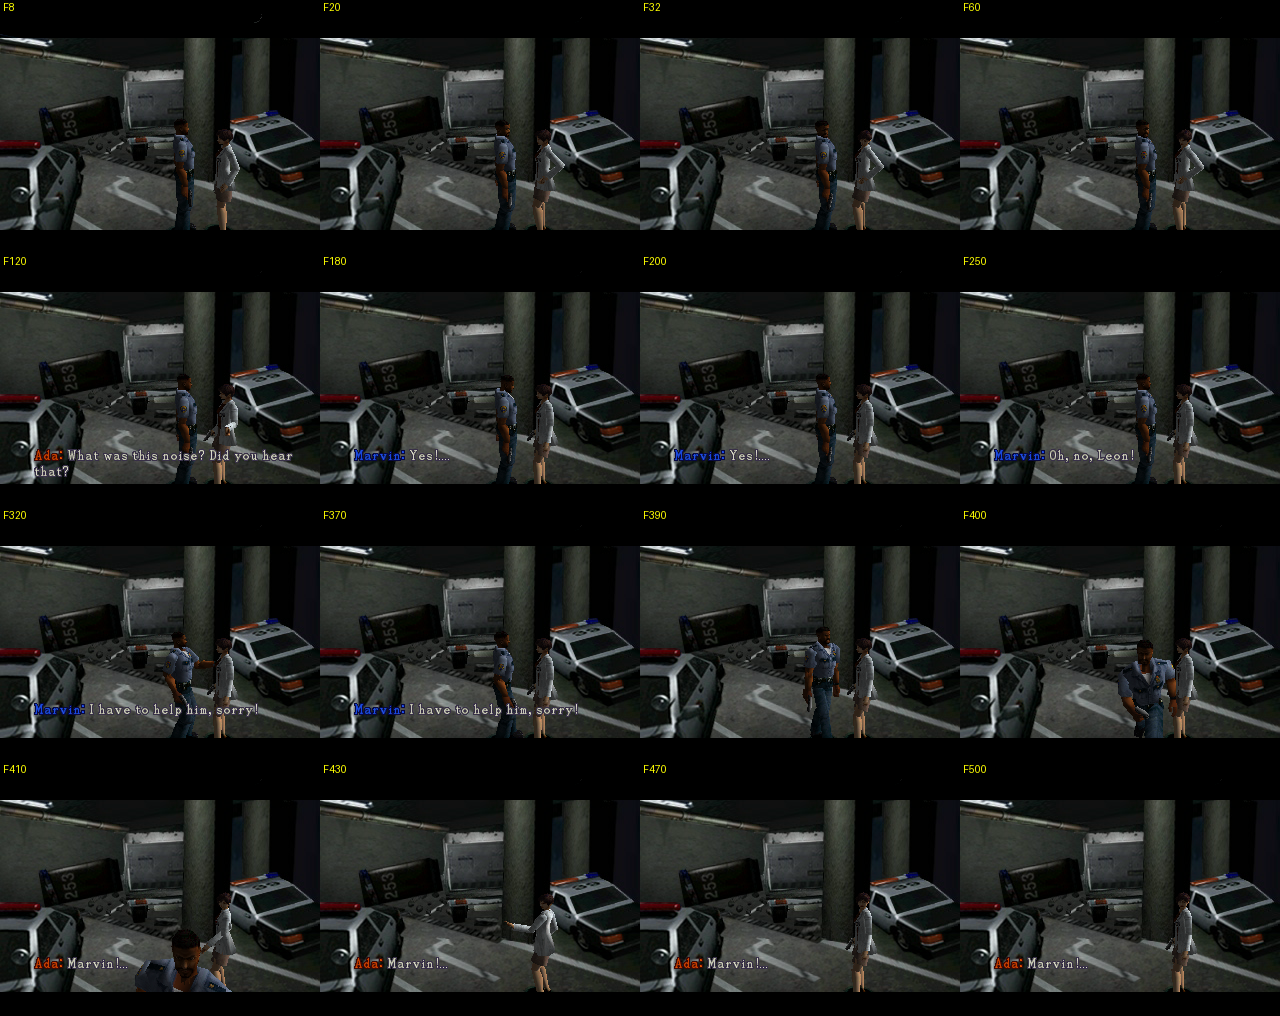
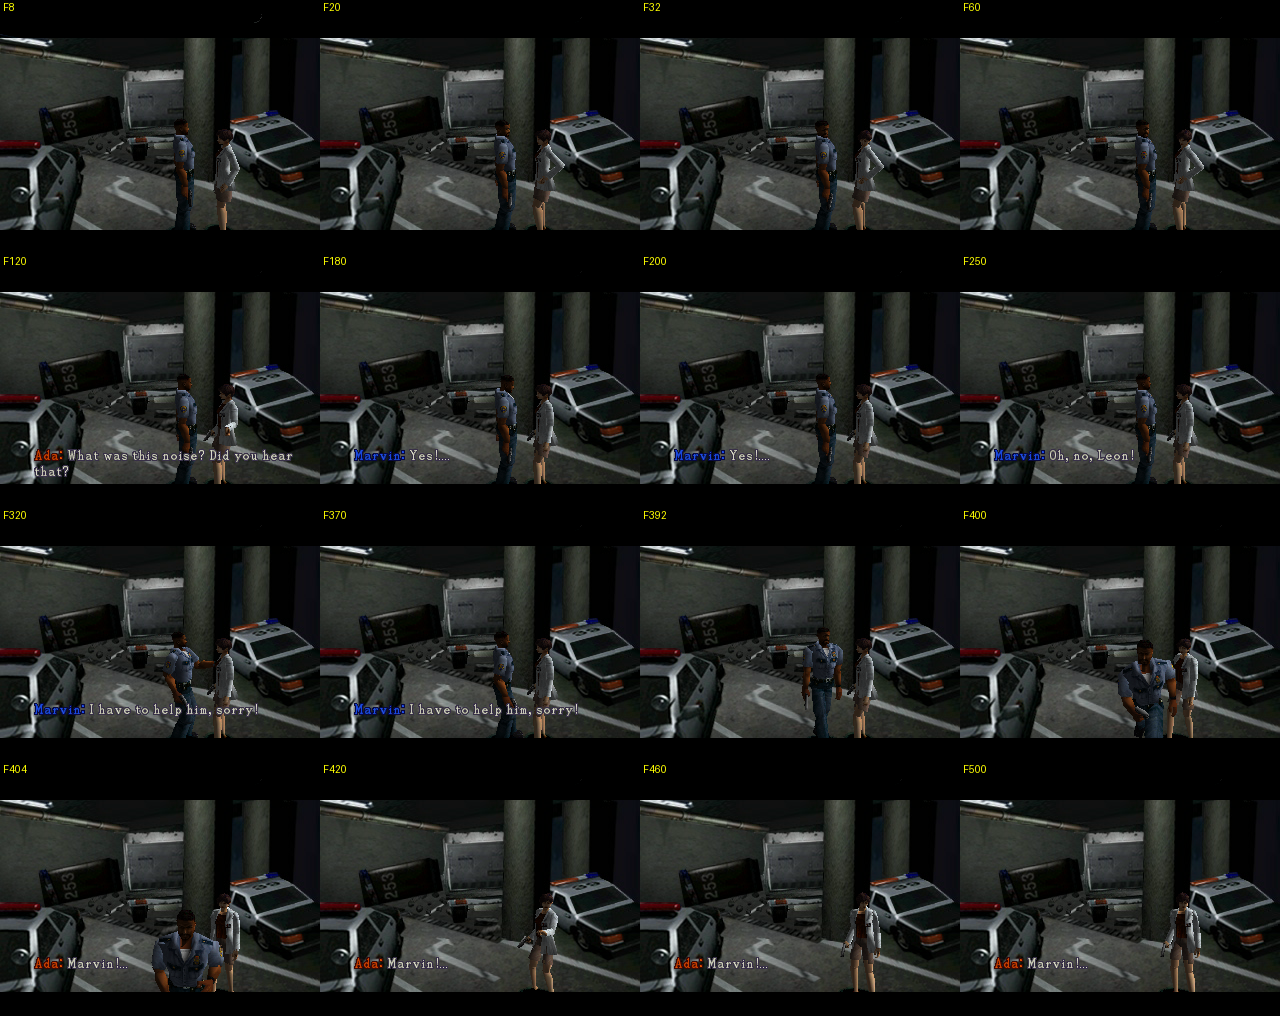
wip(r37-szene11c0): Dossier Nachtrag 12 (RE2 Plc_neck m5 @0x80056e5c/@0x800178a0, Nachsehen-Zensus, Lauf n5: Ada dreht -58.9 Grad ihm nach, Blick <= 1.9 Grad)

diff --git a/analysis/befunde_runde37/O_szene11c0.md b/analysis/befunde_runde37/O_szene11c0.md
@@ -7,6 +7,10 @@ Auftrag: AUFTRAG.md Nachtrag 11 (woertlich):
 >
 > Erst schauen sie komplett in die falsche Richtung. Dann drehen sie sich einmal um 180 grad um. Dann dreht sich Ada noch mal um 90 grad um. Zwischendurch steht marvin da, spricht, schaut aber nicht zu ada.... da musst du noch mal ran, das ist noch nicht so gut.
 
+Nachtrag 12 (woertlich, AUFTRAG.md, vom Orchestrator in diesen Zweig committet 86507d09):
+
+> zum schluss dialog ada/marvin - wenn Ada sagt: "Marvin!" kann sie sich gerne den weglaufenden Marvin nach drehen.
+
 Zuteilung (VERTRAG.md §1.4): Spur O aendert Programm 4 (k_p_11c0) in irons_tod_1150.c an Ort und Stelle (Kommentar
 "Runde 37 Spur O"); die uebrigen Programme (Spur H: Nachspawn 1130) und k_msg28 (Nachtrag 10) NICHT anfassen.
 
@@ -17,7 +21,8 @@ Zuteilung (VERTRAG.md §1.4): Spur O aendert Programm 4 (k_p_11c0) in irons_tod_
 - [x] RE-Belege (B1 Gier/Aufstellung ROOM10D0, B2 Raum-Vokabular, B3 Kopf-Klemme/INIT/Raten, B4 RE2-Zensus)
 - [x] Umsetzung
 - [x] Messung nachher (Lauf n3, Auswerter 0 Fehler, Vorher/Nachher-Streifen)
-- [ ] Tests (probes/r37_szene11c0.cmake)
+- [x] Nachtrag 12: RE2-Beleg (B5), Umsetzung (Schritt 7), Messung nachher (Lauf n5)
+- [x] Tests (probes/r37_szene11c0.cmake; r35/r36-Riegel mit Beleg angepasst)
 
 ## Messung vorher
 
@@ -142,20 +147,41 @@ Koerperdrehung im Gespraech).
   Rate 0x3c/0x1e), der NPC `41 05 01 00 ..` @0x028B0 / @0x028D4 / @0x02940 (RE2-Modus 5 = auf Work(1,0) = Leon), kurze
   Blicke weg und zurueck nur mit dem Kopf @0x0290E/@0x0291C.
 
+### B5 Nachtrag 12: einer laufenden Figur nachsehen (RE2)
+* **RE2 Plc_neck Modus 5 = Kopf folgt einer Figur, je Bild.** Handler @0x80056e5c (selbst disassembliert,
+  `re2_disasm.py`): `addiu v0,zero,128` / `sb v0,448(a1)` @0x80056e6c/@0x80056e70 (+0x1c0 = 0x80), Sprungtabelle
+  @0x80011508 = {m0 0x80056eb0 `|0x12`, m1 0x80056f00 `|0x04`, m2 0x80056ec4 `|0x08`, m3 0x80056ed8 `|0x2a`,
+  m4 0x80056eec `|0x58`, **m5 0x80056f00 `|0x04`** (Weltpunkt-Bit wie m1), m6 0x80056f14 `sb zero`}; Ziel `sh` +0x170/
+  +0x172/+0x174 @0x80056f1c..@0x80056f28; NUR fuer m5 (`bne a2,5` @0x80056f24): +0x170 = Figur (Work 1 -> 0, 2 -> 1,
+  3,i -> i+2) und **+0x172 = 0x8000** (`addiu v0,zero,-32768` / `sh v0,370(a1)` @0x80056f70/@0x80056f74).
+  Kopf-FSM FUN_800177C0: Weltpunkt-Zweig `andi v1,v1,0x4` @0x80017870, `lh v0,370(s0)` @0x8001787c, **`ori v1,zero,0x8000`
+  / `bne v0,v1` @0x800178a0/@0x800178a4** -> Figur aus der Tabelle @0x800cfe14 (`lw a0,-492(at)` @0x800178b8), deren
+  Kopf-Teil (+0x1c1/+0x198) -> Ziel = `lw v0,92(t0)` .. `lw a1,104(t0)` @0x80017924..@0x80017930 = der Kopf-Ort der Figur
+  IN JEDEM BILD. RE1.5 kennt den Modus nicht (Handler @0x80041e98: `sltiu v0,a1,0x5` @0x80041eac -> Modus >= 5 nur 0x80).
+* **RE2-Zensus "nach einem Gang/Lauf reagiert eine andere Figur"** (`tools/r37_o/re2_nachsehen_zensus.py`,
+  `O_belege/re2_nachsehen_zensus.txt`): Plc_neck m5 10x, Plc_neck m2 5x, m1 4x, m6 2x, m4 1x, Plc_dest m9 2x, m21 2x,
+  m20 1x, Plc_rot 1x, Dir_set 2x. Vorbilder: ROOM1130 sub15 (Leon geht @0x01B60) -> NPC Plc_neck m5 auf Leon @0x01B8E +
+  Plc_dest m9 @0x01B9C (Kopf folgt, Koerper dreht); ROOM3040 sub08 (Leon rennt @0x01400) -> Partner Plc_dest m9 @0x01438 +
+  Plc_rot @0x01440 + Plc_neck m5 @0x01444; ROOM2020 sub02 (Leon rennt @0x020D6) -> NPC Plc_neck m1 auf Leons LAUFZIEL
+  @0x02108 (`41 01 .. 3c 1e`).
+
 ## Umsetzung
 
 ### Dateien
 * `re15_port/engine/src/irons_tod_1150.c` — Programm 4 `k_p_11c0` an Ort und Stelle neu (Kommentarblock "RUNDE 37 SPUR O"
   mit allen Belegen; der Ablauf der Runde 36 ist dort als ERSETZT markiert). Neue Makros `OP_DIR` (Dir_set, ROOM10D0
-  @0x01AC4), `OP_NECK1_LANGSAM` (ROOM4000 @0x015B6), `IT_GIER_ADA_MARVIN 3679` / `IT_GIER_MARVIN_ADA 1631`
-  (= re15_s11c0_gier, vom Riegel unit_r37_szene11c0_aufstellung nachgerechnet). Dazu 2 Zeilen Mess-Haken (Include +
-  Aufruf `re15_s11c0_mess_takt()` in `re15_irons_tod_tick`, nur in 11C0 waehrend Programm 4, env-gegatet). Andere
-  Programme (Spur H) und `k_msg28` (Nachtrag 10) unberuehrt.
+  @0x01AC4), `IT_GIER_ADA_MARVIN 3679` / `IT_GIER_MARVIN_ADA 1631` (= re15_s11c0_gier, vom Riegel
+  unit_r37_szene11c0_aufstellung nachgerechnet). Dazu 2 Zeilen Haken (Include + Aufruf `re15_s11c0_takt()` in
+  `re15_irons_tod_tick`, nur in 11C0 waehrend Programm 4). Andere Programme (Spur H) und `k_msg28` (Nachtrag 10) unberuehrt.
 * NEU `re15_port/engine/src/szene11c0_r37.c` + `re15_port/include/re15_szene11c0_r37.h`: `re15_s11c0_gier` (Peilung
-  in der Form des Ports), `re15_s11c0_winkel_diff`, Mess-Haken `RE15_S11C0_LOG`.
+  in der Form des Ports), `re15_s11c0_winkel_diff`, **Port-Takt `re15_s11c0_takt` "Ada folgt Marvin" (Nachtrag 12,
+  Signal (5,13))**, Mess-Haken `RE15_S11C0_LOG`.
 * Werkzeuge `re15_port/tools/r37_o/`: `szene_mess.py` (Auswertung Bild fuer Bild), `re2_reaktion_zensus.py`,
-  `re2_aufstellung_zensus.py`.
+  `re2_aufstellung_zensus.py`, `re2_nachsehen_zensus.py`.
 * Keine Assets, keine Sprachdateien, keine Bank-9-Bits, keine Nachrichten-Ids, keine Ereignisse (Ereignis 21 wie r35).
+  Neu belegt: Bank 5 Wort 0 Bit 13 in ROOM11C0 (Raum-Scratch, beim Raum-Init geloescht FUN_8003ecec @0x8003ed74) als
+  Signal "Ada folgt Marvin"; Zensus: die ROOM11C0-RDT benutzt in Bank 5 nur die Bits 0/1 (sub05 @0x01C3E/@0x01C46, sub06
+  @0x01C50/@0x01C58), kein Port-Modul setzt/liest (5,13).
 
 ### Ablauf Programm 4 (Takte = PORT-WAHL; jede Form mit Vorbild)
 | Schritt | Opcodes | Vorbild |
@@ -167,8 +193,13 @@ Koerperdrehung im Gespraech).
 | (3) "Yes!...." | Sleep 8; msg 11; Kopf frei, Sleep 5, Nicken, Sleep 20; Kopf auf Ada, Sleep 30 | sub03 @0x01BB2..@0x01BCA |
 | (4) "Oh, no, Leon!" | msg 12, Sleep 60 (Marvin sieht Ada an) | Nachtrag 11 |
 | (5) "I have to help him, sorry!" | msg 13; Clip 15 vor, 25 + 20 halten, zurueck 26; Sleep 30 (= 101 >= 99 Haltezeit `01 63`) | Arm wie r35; RE2 ROOM3010 sub04 je Zeile Kopf auf den Partner |
-| (6) Losrennen | Kopf frei; Plc_dest m5 zur Tuer-Mitte; Sleep 15 | 11B0 sub06 @0x015EA |
-| (7) Ada sieht nach | Plc_neck m1 zur Tuer Rate 0x3c; Sleep 4; msg 14 + Clip 15; Sleep 60; Tuer zurueck nach 1150 Cut 7 | ROOM4000 @0x015B6 |
+| (6) Losrennen | Kopf frei; Plc_dest m5 zur Tuer-Mitte; Sleep 12 (Phase 1 dreht ihn am Ort) | 11B0 sub06 @0x015EA |
+| (7) Nachtrag 12: Ada dreht sich dem laufenden Marvin nach | Set(5,13)=1; Plc_neck m1 + Plc_dest m9 (Ankunfts-Bit 1) mit Ausgangsziel = sein Laufziel; `18 06` (warten bis zugewandt); msg 14 + Clip 15; Sleep 60; Tuer zurueck nach 1150 Cut 7. Port-Takt je Bild: Kopf-Weltpunkt = Marvins Kopf-Ort, Drehpunkt = Marvins Ort (nur waehrend Sub 9) | RE2 Plc_neck m5 (B5); 11C0 sub02 @0x018C0/@0x018CA/@0x018D2; RE2 ROOM2020 sub02 @0x02108 (Laufziel) |
+
+Reihenfolge im Bild beim Folgen: der Irons-Takt laeuft am Kopf des VM-Laufs (scd_vm.c:722, vor den Faeden), die NPC-KI
+danach (Drehen liest +0x1bc/+0x1be), die Kopf-FSM beim Zeichnen. Im Bild des Befehls gilt das Ausgangsziel (Laufziel =
+dieselbe Richtung wie Marvin), ab dem naechsten Bild Marvins Ort; als Ausgangsziel taugt NICHT sein Startplatz (Ada sieht
+ihn schon an -> sofort "zugewandt", keine Drehung).
 
 ### Zwei Befunde beim Bauen (gemessen, behoben)
 * **Plc_neck vor dem NPC-INIT wird geloescht.** Erste Fassung (Lauf n1) setzte die Koepfe schon im Raumaufbau:
@@ -182,30 +213,37 @@ Koerperdrehung im Gespraech).
 
 ## Messung nachher
 
-Lauf n3 (Stand 95ff173f, Messkopie `re15_pc_r37o_n3.exe`, derselbe Weg wie "vorher", `RE15_EXIT_AT=509#11C0`):
+Lauf n5 (Endstand c44d3df2, Messkopie `re15_pc_r37o_n5.exe`, derselbe Weg wie "vorher", `RE15_EXIT_AT=513#11C0`):
 `O_belege/o_nach_mess.txt`, `o_nach_bilder.txt`, Kontaktbogen `o_nach_11c0.png`, Kopf-Ausschnitte `o_nach_kopf_zoom.png`,
-**Vorher/Nachher-Streifen `o_vor_nach_streifen.png`** (je Beat oben vorher, unten nachher), Auswerter
-`test_r37_szene11c0 auswerten` -> `o_nach_auswerten.txt` (0 Fehler) gegen `o_vor_auswerten.txt` (alter Stand: 9 Fehler).
+Schluss-Folge `o_nachtrag12_ende.png` (F384..F500), **Vorher/Nachher-Streifen `o_vor_nach_streifen.png`** (je Beat oben
+vorher, unten nachher), Auswerter `test_r37_szene11c0 auswerten` -> `o_nach_auswerten.txt` (0 Fehler) gegen
+`o_vor_auswerten.txt` (alter Stand: 9 Fehler). (Zwischenlaeufe n1..n4: n1 INIT-Befund, n3 = Stand vor Nachtrag 12 mit
+Ada nur Kopf, n4 = Laengenmessung.)
 ```
-Drehungen Ada:    keine
-Drehungen Marvin: F385..F400 Gier 1631 -> 2749 +98.3 Grad (Losrennen, nach dem Ende von msg 13 in F383); danach nur das
-                  Nachsteuern im Lauf (+4.7 / -8.6 Grad)
+Drehungen Ada:    F397..F404 Gier 3679 -> 3009  -58.9 Grad (dem laufenden Marvin nach; vorher keine)
+Drehungen Marvin: F385..F400 Gier 1631 -> 2749  +98.3 Grad (Losrennen, nach dem Ende von msg 13 in F383); danach nur das
+                  Nachsteuern im Lauf (+4.7 / -10.0 Grad)
 Untertitel: 10 F72..F169, 11 F170..F224, 12 F225..F284, 13 F285..F383, 14 F405..F503
 msg 10 Ada:    Sprecher Koerper 0.1 Grad, Kopf auf Marvin 98/98 (Blick 0.0 Grad) | Zuhoerer Marvin Koerper 0.1, Kopf auf Ada 98/98
 msg 11 Marvin: Koerper 0.1 Grad, Kopf auf Ada 30/55 + frei/Nicken 25/55, Blick max 6.2 Grad (Nicken) | Ada Kopf auf Marvin 55/55
 msg 12 Marvin: Koerper 0.1 Grad, Kopf auf Ada 60/60, Blick 0.0 Grad | Ada Kopf auf Marvin 60/60
 msg 13 Marvin: Koerper 0.1 Grad, Kopf auf Ada 99/99, Blick 0.0 Grad | Ada Kopf auf Marvin 99/99
-msg 14 Ada:    Koerper bleibt (Marvins alter Platz), Kopf zur Tuer an der Klemme 99/99, Blick zum laufenden Marvin 7..32 Grad
-               (der Koerper 61..87 Grad) — "sieht ihm nach", soweit die Kopf-Klemme 0x2c8 reicht
+msg 14 Ada:    Koerper im ersten Bild 40 Einheiten (3.5 Grad) neben dem laufenden Marvin; Kopf-Ziel folgt ihm 99/99,
+               gezeichneter Blick auf Marvin max 1.8..1.9 Grad in allen 99 Bildern (Kopf nie an der Klemme)
 Knall (vor msg 10): beide Koepfe zur Tuer (Marvin ab Bild 18, Ada ab Bild 24), Koerper unveraendert
 ```
+Folgen im Einzelnen (s11c0.log, Peilung Ada -> Marvin relativ zu ihrer Gier): F396 Marvin laeuft los (-260), Ada dreht ab
+F397 mit 0x60 je Bild (F399 -327, F402 -160), F405 zugewandt (-38) -> "Marvin!..." + Arm zu ihm; danach dreht nur noch
+der Kopf mit (F420 -160, F456 -319 = groesste Abweichung, weit innerhalb der Klemme 0x2c8).
+
 Gegen den Wortlaut des Nutzers:
 | Nutzer | nachher |
 |---|---|
 | "Erst schauen sie komplett in die falsche Richtung." | Im ersten Bild (F6) Ada Gier 3679 = Peilung auf Marvin, Marvin 1631 = Peilung auf Ada: einander zugewandt (Profil zur Kamera), Bild F8/F14. |
-| "Dann drehen sie sich einmal um 180 grad um." | Keine Koerperdrehung beim Knall; nur die Koepfe drehen zur Tuer (Kopf an der Klemme = Gesicht zur Kamera, Bild F32). Groesste Drehung Ada 0, Marvin 98,3 Grad nur beim Losrennen. |
-| "Dann dreht sich Ada noch mal um 90 grad um." | Ada dreht ihren Koerper in der ganzen Szene nicht (0 Abschnitte); beim Nachsehen nur der Kopf. |
+| "Dann drehen sie sich einmal um 180 grad um." | Keine Koerperdrehung beim Knall; nur die Koepfe drehen zur Tuer (Kopf an der Klemme = Gesicht zur Kamera, Bild F32). Groesste Drehung Marvin 98,3 Grad nur beim Losrennen, Ada 58,9 Grad nur beim Nachsehen (Nachtrag 12). |
+| "Dann dreht sich Ada noch mal um 90 grad um." | Im Gespraech (msg 10..13) dreht Ada ihren Koerper gar nicht; ihre einzige Drehung ist die gewuenschte nach Nachtrag 12 (58,9 Grad, dem laufenden Marvin nach). |
 | "Zwischendurch steht marvin da, spricht, schaut aber nicht zu ada" | Bei allen drei Zeilen (msg 11/12/13) Koerper 0,1 Grad und gezeichneter Kopf-Blick <= 6,2 Grad auf Ada; er rennt erst los, wenn seine letzte Zeile abgelaufen ist. |
+| Nachtrag 12: "wenn Ada sagt: "Marvin!" kann sie sich gerne den weglaufenden Marvin nach drehen" | Ada dreht sich ihm nach, waehrend er loslaeuft (Drehpunkt folgt ihm), ruft "Marvin!..." ihm zugewandt (3,5 Grad) mit dem Arm zu ihm und sieht ihm mit dem Kopf nach (Blick <= 1,9 Grad in allen 99 Bildern der Zeile), Bild `o_nachtrag12_ende.png`. |
 
 ## Tests
 
@@ -213,10 +251,13 @@ Gegen den Wortlaut des Nutzers:
 
 ## OFFEN
 
-* **Kein Entity-Folge-Blick in RE1.5.** Ada sieht Marvin beim Weglaufen mit einem festen Weltpunkt (Tuer-Mitte) nach;
-  RE1.5 kennt keinen Plc_neck-Modus "auf eine Figur" (Handler @0x80041e98: Modus >= 5 setzt nur 0x80; RE2 hat dafuer
-  Modus 5). Mit der Klemme 0x2c8 bleibt ihr Blick 7..32 Grad neben dem laufenden Marvin (Koerper 61..87 Grad). Ein
-  mitlaufender Blick waere eine Folge von Plc_neck-Punkten entlang seines Weges — nicht gebaut (keine Vorlage im Original).
+* **Folgen = Port-Takt statt Opcode.** RE1.5 hat keinen Plc_neck-Modus "auf eine Figur" (Handler @0x80041e98); das
+  RE2-Verhalten (Modus 5, B5) bildet der Port-Takt `re15_s11c0_takt` nach, indem er Adas Weltpunkt je Bild auf Marvins
+  Kopf-Ort setzt — nur in dieser Szene (Signal (5,13)), keine Aenderung an Opcode-Handler oder Kopf-FSM (skeleton_common.c).
+  Ein allgemeiner RE2-Modus 5 im Port (Opcode + FSM-Zweig @0x800178a0) waere ein eigener Schritt fuer alle Szenen.
+* Der Koerper folgt Marvin nur, solange Ada sich dreht (bis sie ihm zugewandt ist, F405); danach folgt der Kopf allein.
+  Gemessen bleibt der Rest seines Weges im Bild <= 319 Einheiten (28 Grad) neben ihrer Gier, weit innerhalb der Kopf-
+  Klemme 0x2c8 — eine zweite Koerperdrehung ist nicht noetig (RE2-Vorbilder: eine Drehung + Kopf-Folge, B5).
 * **Marvin = Aktor 4 (Work_set(2,3)) ist vorbestehend (r35) fest verdrahtet:** der Platz ergibt sich, weil die zwei
   Gorilla-Records ROOM11C0 sub00 @0x01784/@0x01798 (gleiche Bedingung (4,64)=0, Tot-Bits (7,96)/(7,97)) vor ihm stehen.
   Unter (4,64)=0 (Bedingung der ganzen 11C0-Montage, re15_irons_tod_ohne_11c0) sind die Gorillas noch nicht
@@ -232,9 +273,10 @@ Gegen den Wortlaut des Nutzers:
   Kamera). Auf den Knall drehen nur die Koepfe zum Gebaeude (zur Kamera hin), der Koerper bleibt. Danach sehen sie
   sich wieder an; Ada fragt, Marvin nickt "Yes!....", sagt "Oh, no, Leon!" und "I have to help him, sorry!" (Arm) — bei
   allen drei Zeilen sieht er Ada an. Erst wenn seine letzte Zeile abgelaufen ist, dreht er sich um und rennt zur Tuer
-  (die einzige Koerperdrehung der Szene, ~98 Grad, weil die Tuer hinter der Kamera liegt). Ada dreht sich nicht mehr:
-  sie sieht ihm mit dem Kopf nach und ruft "Marvin!..." (Arm). Vorher/Nachher: `analysis/befunde_runde37/O_belege/
-  o_vor_nach_streifen.png`.
+  (~98 Grad, weil die Tuer hinter der Kamera liegt). Ada dreht sich ihm nach, sobald er losrennt (Nachtrag 12), ruft
+  ihm zugewandt "Marvin!..." mit dem Arm zu ihm und folgt ihm mit dem Kopf, bis er aus dem Bild ist. Im Gespraech selbst
+  dreht sich niemand mehr. Vorher/Nachher: `analysis/befunde_runde37/O_belege/o_vor_nach_streifen.png`, Schluss:
+  `o_nachtrag12_ende.png`.
 * Neue Assets fuer das Paket-Gate: KEINE. Sprachdateien: KEINE neuen (Zeilen 10..14 unveraendert).
 * Bedienung unveraendert: nach der 10F0-Szene ROOM1150 betreten (Irons-Szene), die Montage endet in 11C0.
 * Mess-Haken fuer eigene Nachmessungen: `RE15_S11C0_LOG=<datei>` (je Bild Gier/Kopf beider Figuren),
